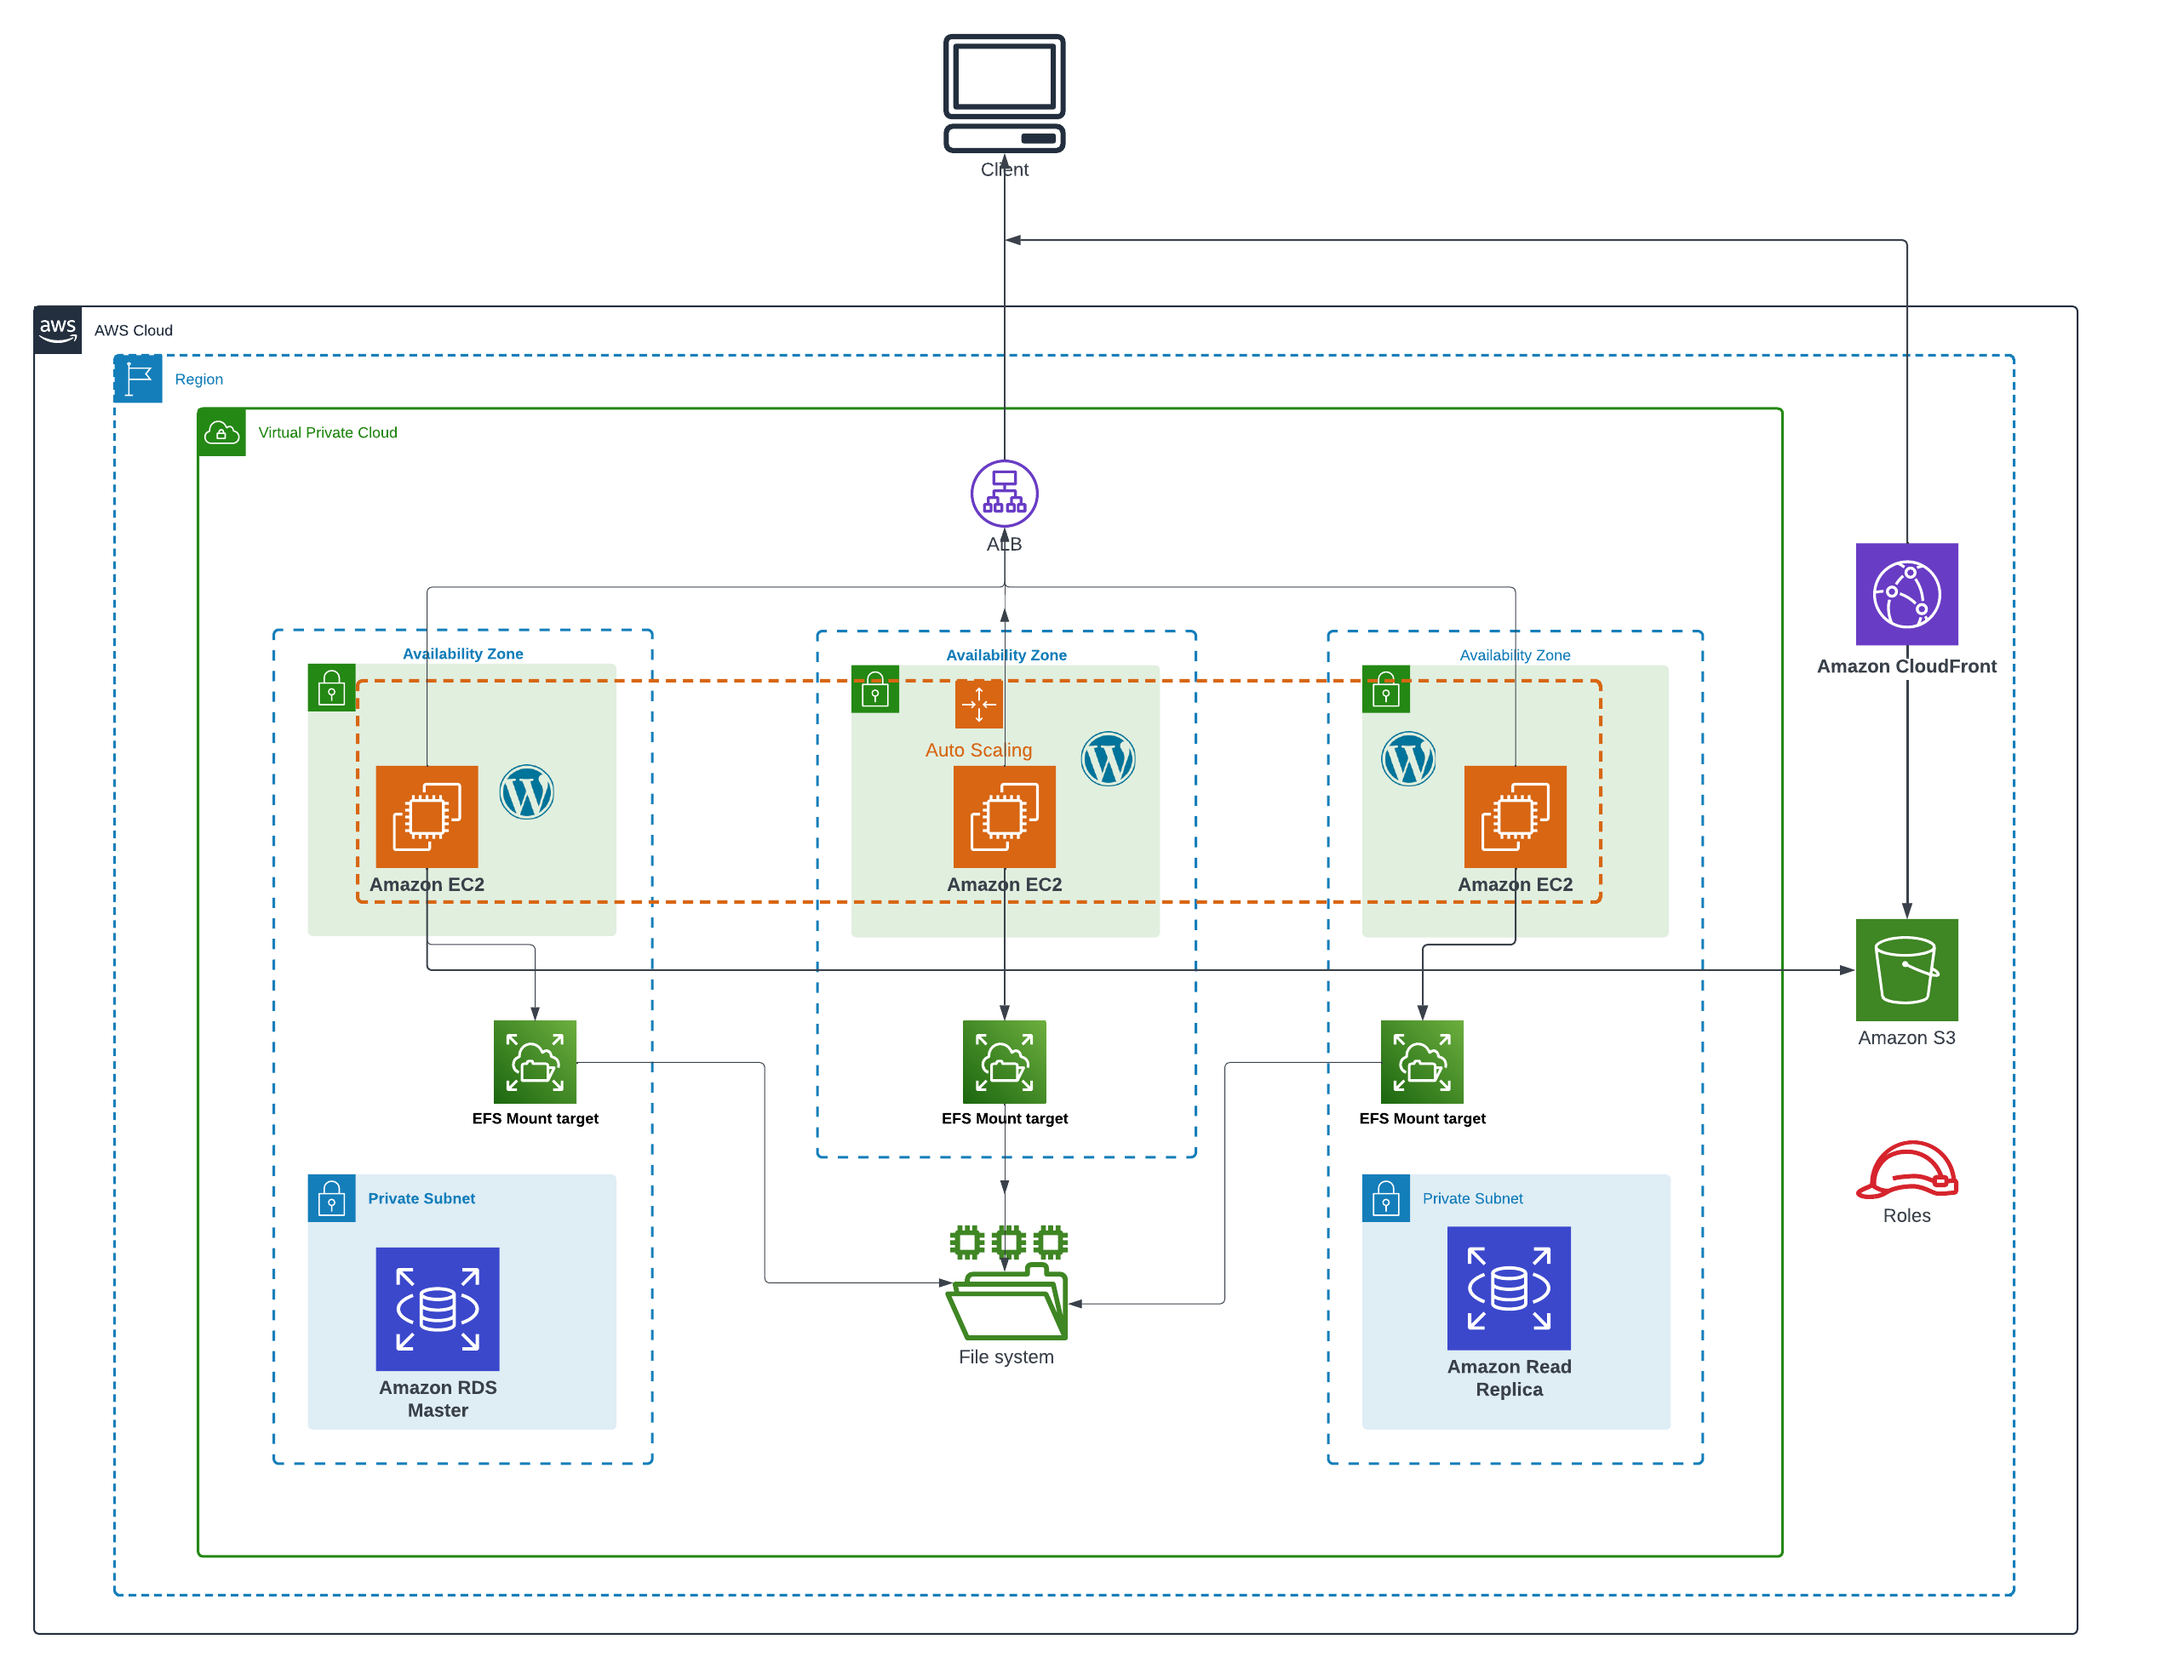
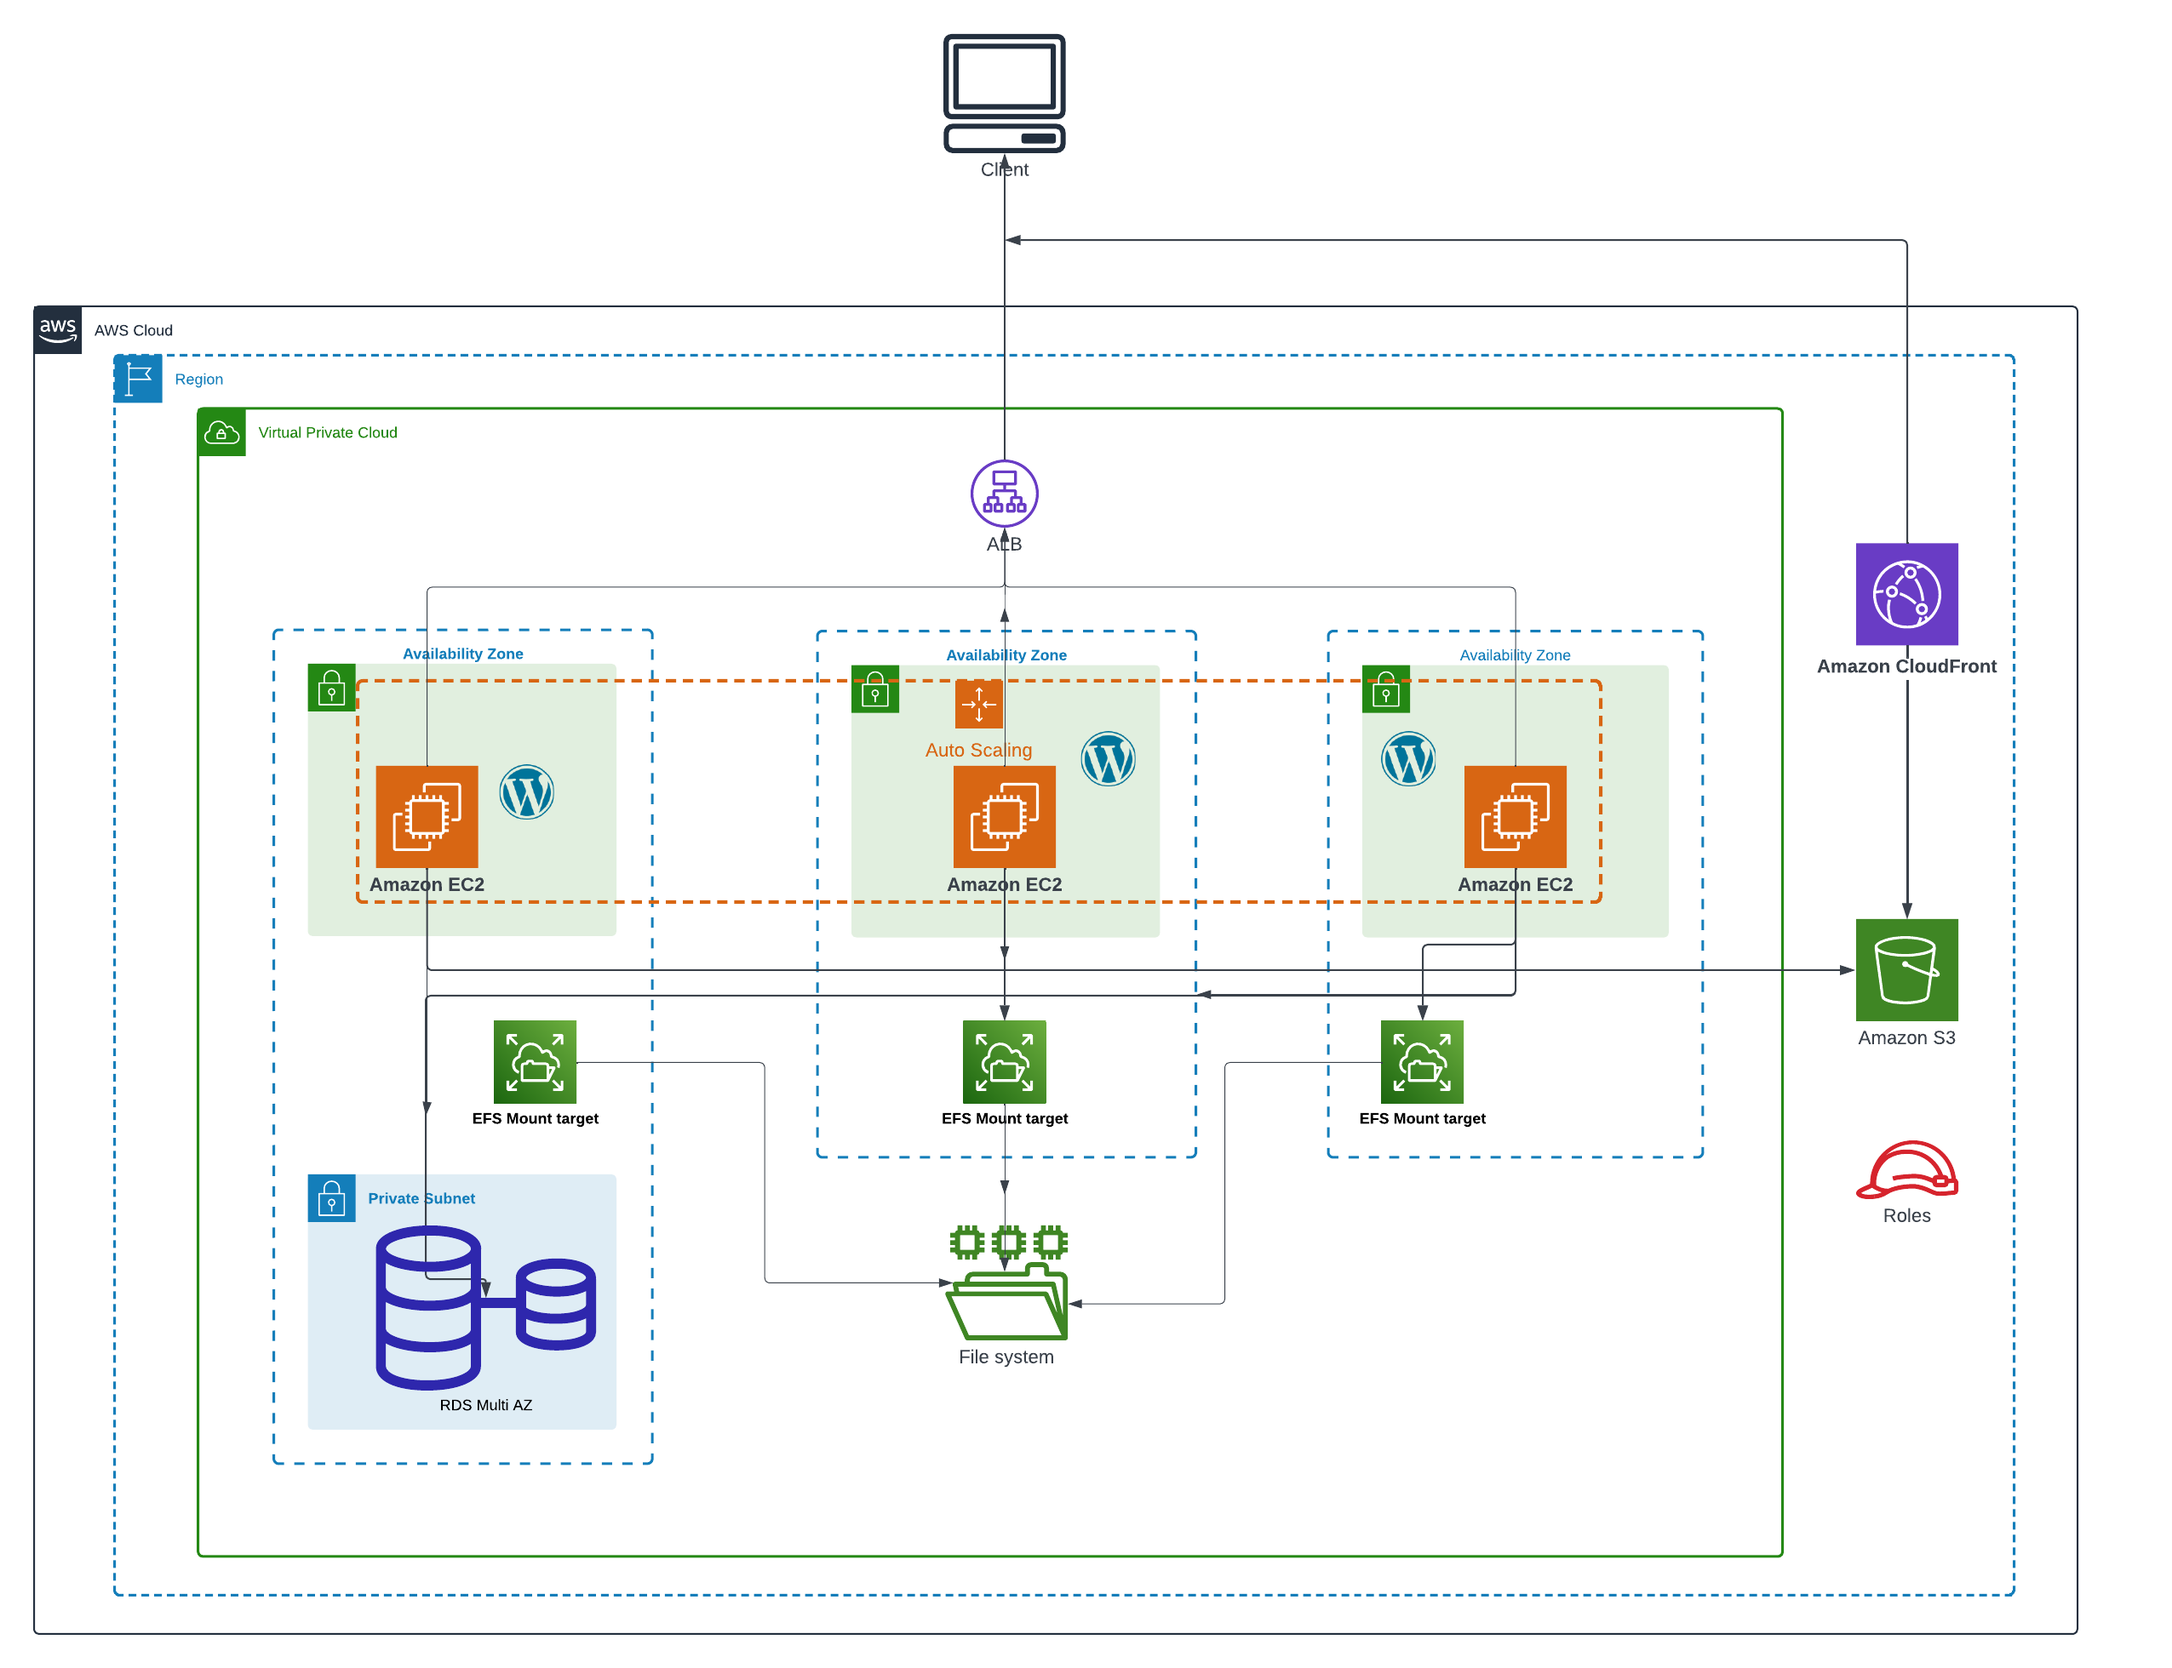
remove read replica add Multi AZ

Changed region(s): [[0.6194, 0.6847, 0.7742, 0.8714], [0.1548, 0.7158, 0.2787, 0.8714]]

diff --git a/terraform/aws-scale-wordpress/README.md b/terraform/aws-scale-wordpress/README.md
@@ -38,12 +38,6 @@ EFS offers a `scalable` and `high-performance Network File System (NFS)` that ca
 
 This shared file storage is pivotal for horizontal scaling of WordPress, ensuring that essential files such as `plugins`, `themes`, and uploads are consistently accessible across the entire fleet.
 
-### Read Replicas for RDS
-
-We can take advantage of **Read Replicas** for our **RDS database** to alleviate the load on the primary instance. This is particularly useful for queries that involve extensive **reading**, such as `reporting tasks`.
-
-**Read Replicas** not only contribute to horizontally scaling database reads but also enhance overall database availability.
-
 ## Prerequisites
 
 Before we proceed with scaling our WordPress deployment on AWS, make sure you have the following prerequisites in place
@@ -247,6 +241,35 @@ resource "aws_efs_mount_target" "efs_mount_target_3" {
   file_system_id  = aws_efs_file_system.efs_volume.id
   subnet_id       = aws_subnet.ec2_3_public_subnet.id
   security_groups = [aws_security_group.efs_sg.id]
+}
+```
+
+## RDS Multi-AZ Configuration
+
+Instead of using Read Replicas, we will opt for a Multi-AZ configuration for our RDS instance. This configuration ensures high availability for our database by automatically creating a replica in a different availability zone. In case of a primary zone failure, replication will automatically switch to the replica in the backup availability zone, thus ensuring uninterrupted operations.
+
+Here's how to configure our RDS Multi-AZ instance in Terraform `main.tf`:
+
+```terraform
+resource "aws_db_instance" "rds_master" {
+  identifier              = "master-rds-instance"
+  allocated_storage       = 10
+  engine                  = "mysql"
+  engine_version          = "5.7.37"
+  instance_class          = "db.t3.micro"
+  db_name                 = var.db_name
+  username                = var.db_user
+  password                = var.db_password
+  backup_retention_period = 7
+  multi_az                = true
+  db_subnet_group_name    = aws_db_subnet_group.database_subnet.id
+  skip_final_snapshot     = true
+  vpc_security_group_ids  = [aws_security_group.database-sg.id]
+  storage_encrypted       = true
+
+  tags = {
+    Name = "my-rds-master"
+  }
 }
 ```
 
